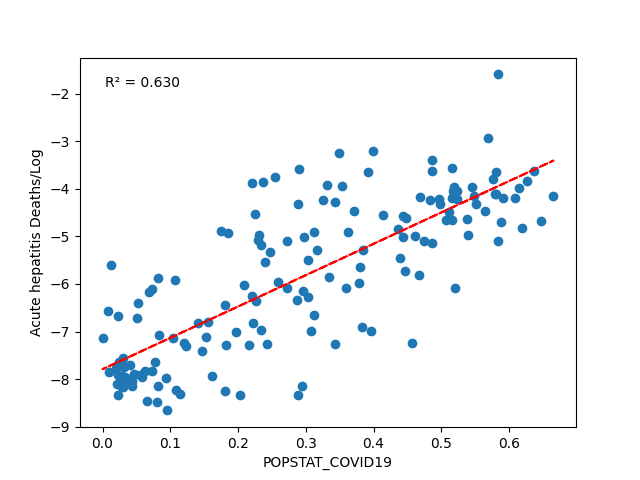
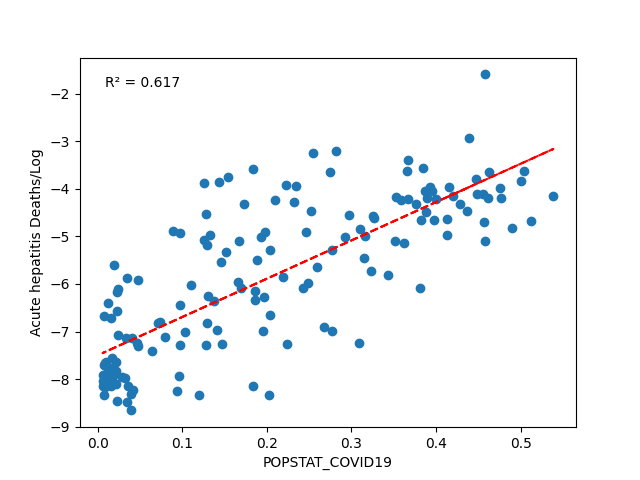
refactor: Update ANALYSIS and results for 2019 population

diff --git a/ANALYSIS_FOR_OTHER_DISEASES/Analysis_of_Death_Data.py b/ANALYSIS_FOR_OTHER_DISEASES/Analysis_of_Death_Data.py
@@ -13,6 +13,8 @@ DEATH_DATA = pd.read_csv("DATA/death_data/deaths_by_cause.csv", low_memory=False
 POPULATION_DATA = pd.read_csv("DATA/population_data_with_age/age_data.csv", low_memory=False)
 HDI_DATA = pd.read_csv("DATA/owid_data/human-development-index.csv", low_memory=False)
 MEDIAN_AGE_DATA = pd.read_csv("DATA/owid_data/median-age.csv", low_memory=False)
+GDP_PER_CAPITA_DATA = pd.read_csv("DATA/owid_data/gdp-per-capita.csv", low_memory=False)
+POPULATION_DENSITY = pd.read_csv("DATA/owid_data/population-density.csv", low_memory=False)
 
 SAVING_PATH_PNG = "RESULTS/CORRELATION_WITH_OTHER_DISEASES/POPSTAT"
 SAVING_PATH_PNG_HDI = "RESULTS/CORRELATION_WITH_OTHER_DISEASES/OTHER_METRICS/HDI"
@@ -35,6 +37,7 @@ class MORTALITY_DATA:
         }
         self.create_population_data()
         self.CORR_COEFFICIENT = {
+            "Parameter": [],
             "Cause of Death": [],
             "Correlation Coefficient": [],
             "CI": [],
@@ -44,6 +47,9 @@ class MORTALITY_DATA:
 
         self.MEDIAN_AGE_DATA = MEDIAN_AGE_DATA[MEDIAN_AGE_DATA['Year'] == int(self.year)]
         self.MEDIAN_AGE_DATA.columns = ["Entity", "Code", "Year", "Median Age", ""]
+
+        self.GDP_per_capita_data = GDP_PER_CAPITA_DATA[GDP_PER_CAPITA_DATA['Year'] == int(self.year)]
+        self.Pop_Density = POPULATION_DENSITY[POPULATION_DENSITY['Year'] == int(self.year)]
 
     def create_population_data(self):
         for country in POPULATION_DATA['Location'].unique():
@@ -125,11 +131,46 @@ class MORTALITY_DATA:
 
         self.PLOT(X,Y, disease, saving_path=SAVING_PATH_PNG_MEDIAN_AGE, variable = "Median Age")
         print(f"Data for {disease} has been plotted with Median Age")
-
     
     def create_dataframe_for_diseases_GDP_PER_CAPITA(self, disease):
-        pass
-            
+        X = []
+        Y = []
+        data = DEATH_DATA[DEATH_DATA['Causes name'] == disease]
+        for country in data['Entity'].unique():
+            pre_name = country
+            country = mapping_name(country)
+            if country == None:
+                continue
+            if country not in self.GDP_per_capita_data['Entity'].str.lower().values:
+                continue
+            GDP_per_capita = self.GDP_per_capita_data[self.GDP_per_capita_data['Entity'].str.lower() == country]['GDP per capita'].values[0]
+            X.append(GDP_per_capita)
+            total_deaths = self.create_death_data_per_disease(disease, pre_name)
+            population = self.COUNTRY_DATA['Population'][self.COUNTRY_DATA['Country'].index(country)]
+            Y.append(total_deaths/population)
+
+        self.PLOT(X,Y, disease, saving_path=SAVING_PATH_PNG_GDP_PER_CAPITA, variable = "GDP per capita")
+        print(f"Data for {disease} has been plotted with GDP per capita")
+
+    def create_dataframe_for_diseases_POPULATION_DENSITY(self, disease):
+        X = []
+        Y = []
+        data = DEATH_DATA[DEATH_DATA['Causes name'] == disease]
+        for country in data['Entity'].unique():
+            pre_name = country
+            country = mapping_name(country)
+            if country == None:
+                continue
+            if country not in self.Pop_Density['Entity'].str.lower().values:
+                continue
+            Pop_Density = self.Pop_Density[self.Pop_Density['Entity'].str.lower() == country]['Population density'].values[0]
+            X.append(Pop_Density)
+            total_deaths = self.create_death_data_per_disease(disease, pre_name)
+            population = self.COUNTRY_DATA['Population'][self.COUNTRY_DATA['Country'].index(country)]
+            Y.append(total_deaths/population)
+
+        self.PLOT(X,Y, disease, saving_path=SAVING_PATH_PNG_POPULATION_DENSITY, variable = "Population Density")
+        print(f"Data for {disease} has been plotted with Population Density")
 
     def PLOT(self, X, Y, title, saving_path=SAVING_PATH_PNG,variable = "POPSTAT_COVID19"):
         X = np.array(X)
@@ -162,6 +203,7 @@ class MORTALITY_DATA:
         print(f"95% confidence interval: {lo:.3f} to {hi:.3f} for {title} deaths")
         print(f"p-value = {p_value:.6f} for {title} deaths")
 
+        self.CORR_COEFFICIENT['Parameter'].append(variable)
         self.CORR_COEFFICIENT['Cause of Death'].append(title)
         self.CORR_COEFFICIENT['Correlation Coefficient'].append(correalation_coefficient)
         self.CORR_COEFFICIENT['CI'].append((lo, hi))
@@ -215,10 +257,12 @@ class MORTALITY_DATA:
             self.create_dataframe_for_diseases(disease)
             self.create_dataframe_for_diseases_HDI(disease)
             self.create_dataframe_for_diseases_MEDIAN_AGE(disease)
+            self.create_dataframe_for_diseases_GDP_PER_CAPITA(disease)
+            self.create_dataframe_for_diseases_POPULATION_DENSITY(disease)
         self.CORR_COEFFICIENT = pd.DataFrame(self.CORR_COEFFICIENT)
         self.CORR_COEFFICIENT.to_csv(os.path.join(SAVING_PATH_CSV, "Correlation_Coefficient.csv"))
 
 
 if __name__ == "__main__":
-    data = MORTALITY_DATA(2018, "japan")
+    data = MORTALITY_DATA(2018, "malta")
     data.ANALYZER_FOR_SELECTED_DISEASES()
